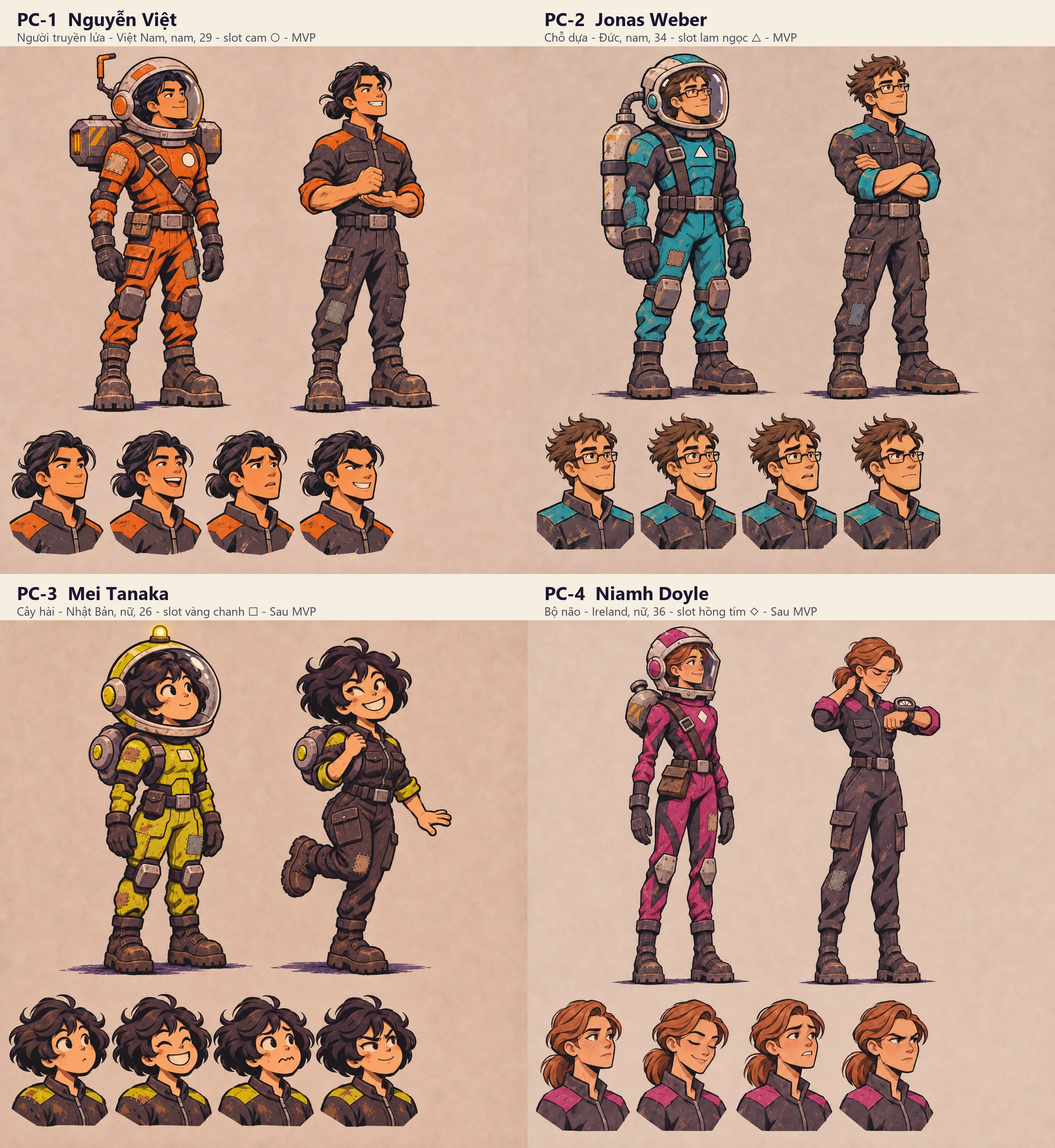
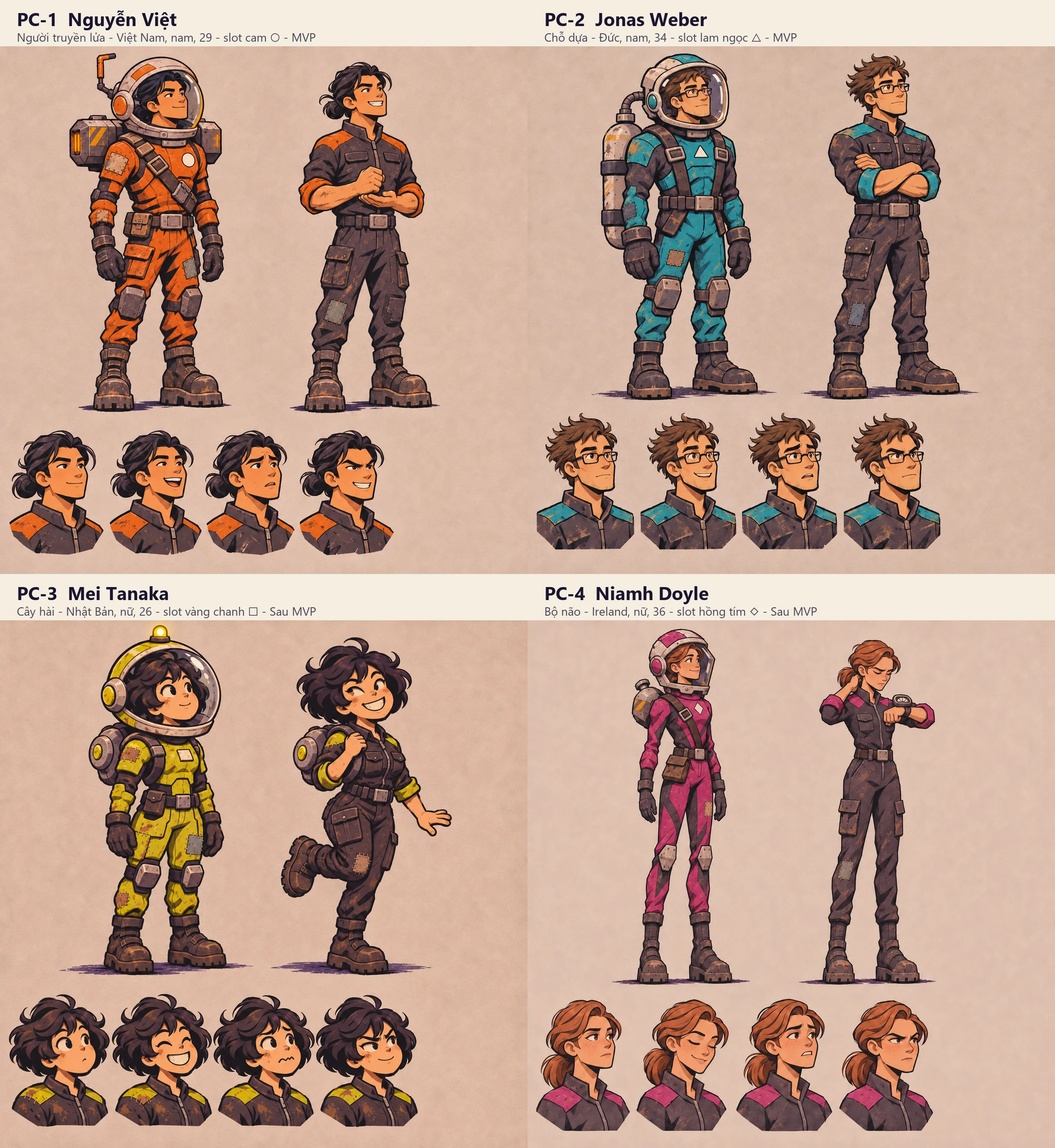
Vẽ lại tấm Niamh theo dáng mới 0,98 u, đầu cùng cỡ PC nam

Changed region(s): [[0.5909, 0.5297, 0.7153, 0.8724], [0.7464, 0.5297, 0.9019, 0.8724]]

diff --git a/art/C/05-nhan-vat/demo-pc/prompt.md b/art/C/05-nhan-vat/demo-pc/prompt.md
@@ -29,6 +29,8 @@ Chiều cao trên `so-dang-4-pc.webp` bản 4, đo hàng tô đen bằng `python
 
 Thứ tự đúng GDD. Artist dựng theo số GDD, không theo ảnh này.
 
+Tấm `pc4.webp` vẽ lại theo dáng mới (`prompt/v5-pc4.txt`, đính kèm tấm Việt làm thước): đầu to bằng đầu Việt, người mảnh, eo gọn. Hình đồ trạm của Niamh cao 0,98 lần hình đồ trạm của Việt khi đo trên hai tấm cùng khổ 1254, khớp GDD 0,98 u.
+
 ## Lịch sử bản 2
 
 ## Cách làm
